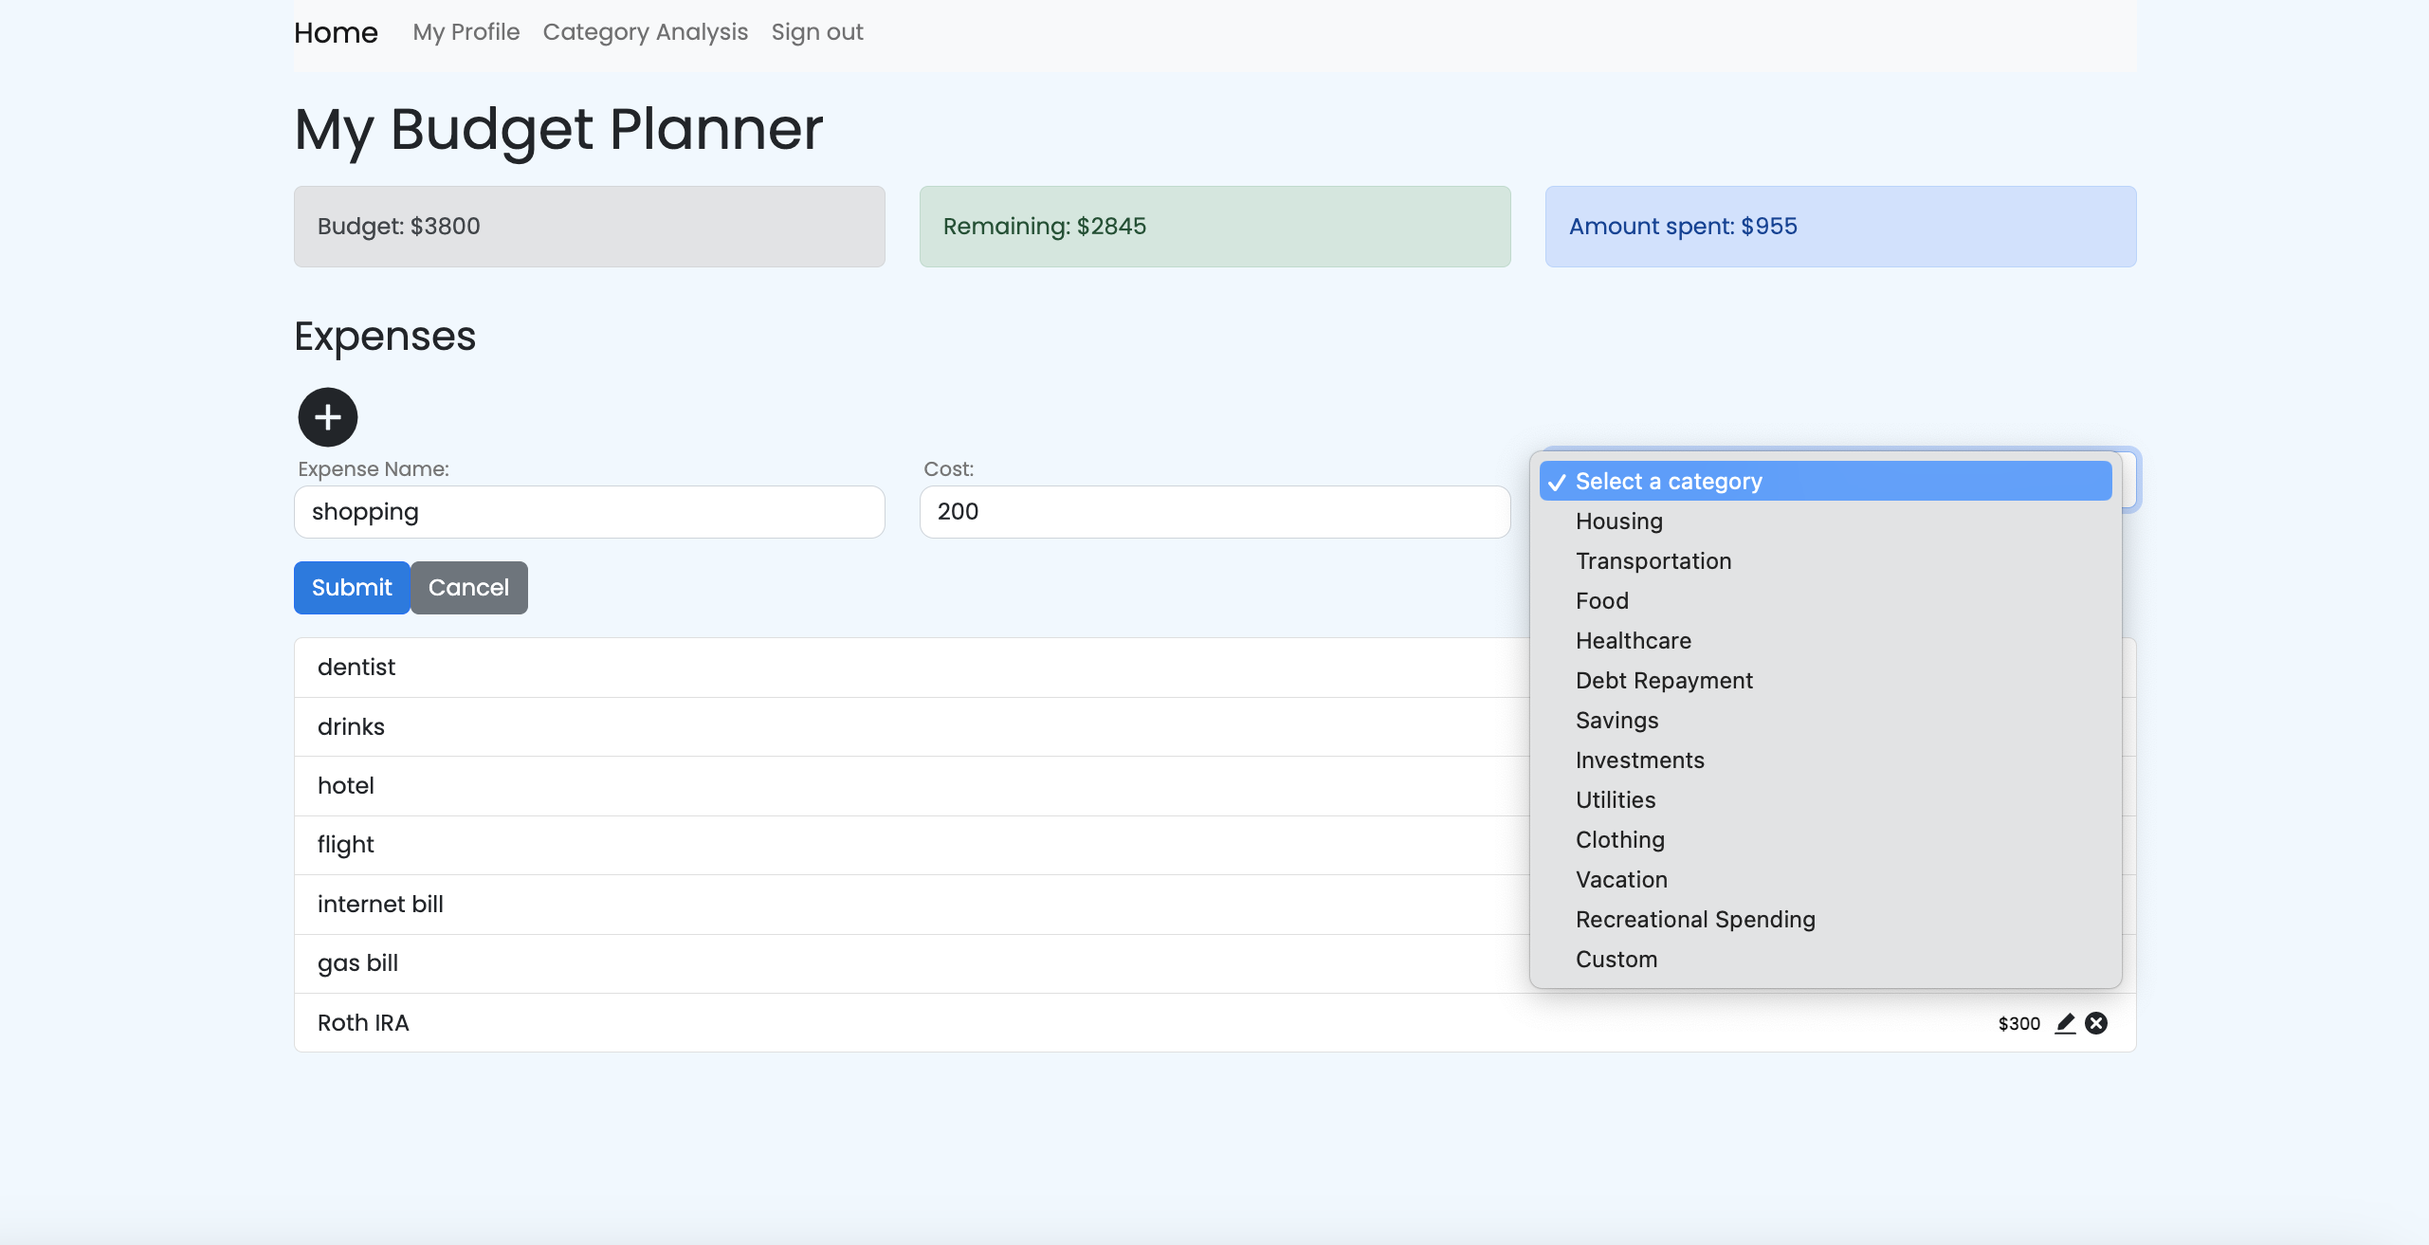
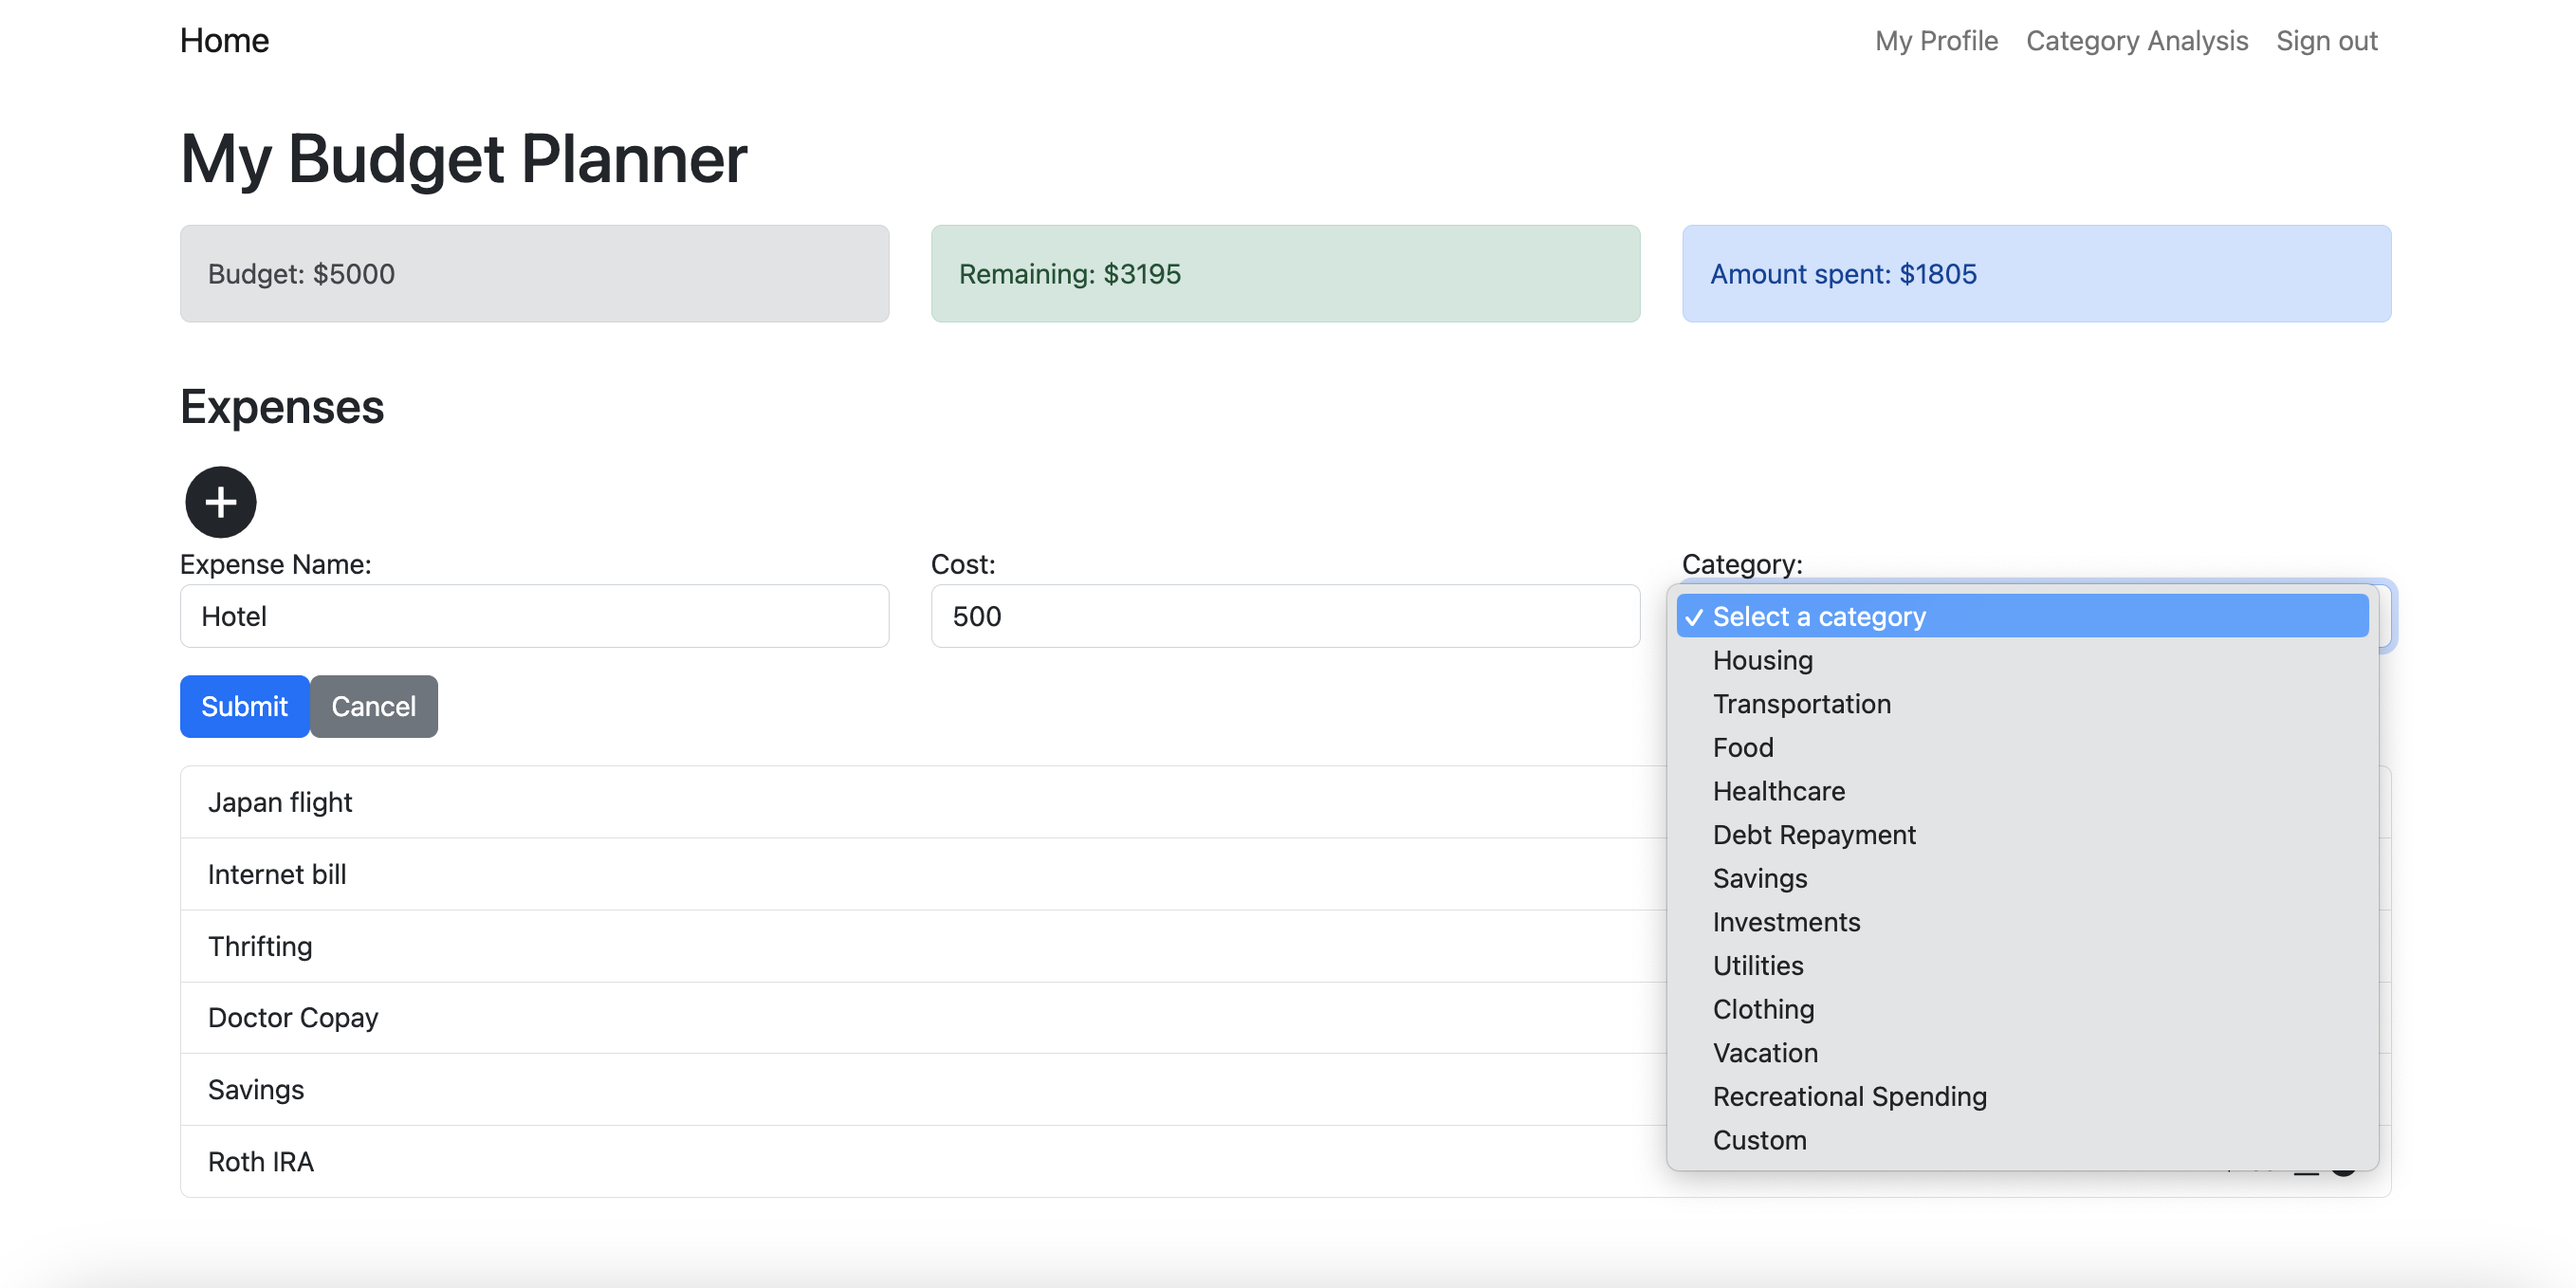
added new readme images, edited styles, fixed custom category in form

diff --git a/client/src/styles/App.css b/client/src/styles/App.css
@@ -1,0 +1,100 @@
+@import url('https://fonts.googleapis.com/css2?family=Poppins&display=swap');
+
+*{
+    margin: 0;
+    padding: 0;
+    box-sizing: border-box;
+}
+
+body{
+    font-family: 'Poppins', sans-serif;
+    /* background-color: aliceblue; */
+}
+
+/* .wrapper{
+    padding: 30px 50px;
+    border: 1px solid #ddd;
+    border-radius: 15px;
+    margin: 10px auto;
+    max-width: 600px;
+} */
+h4{
+    letter-spacing: -1px;
+    font-weight: 400;
+}
+.img{
+    width: 70px;
+    height: 70px;
+    border-radius: 6px;
+    object-fit: cover;
+}
+#img-section p,#deactivate p{
+    font-size: 12px;
+    color: #777;
+    margin-bottom: 10px;
+    text-align: justify;
+}
+#img-section b,#img-section button,#deactivate b{
+    font-size: 14px; 
+}
+
+label{
+    margin-bottom: 0;
+    font-size: 14px;
+    font-weight: 500;
+    color: #777;
+    padding-left: 3px;
+}
+
+.form-control{
+    border-radius: 10px;
+}
+
+input[placeholder]{
+    font-weight: 500;
+}
+.form-control:focus{
+    box-shadow: none;
+    border: 1.5px solid #0779e4;
+}
+select{
+    display: block;
+    width: 100%;
+    border: 1px solid #ddd;
+    border-radius: 10px;
+    height: 40px;
+    padding: 5px 10px;
+    /* -webkit-appearance: none; */
+}
+
+select:focus{
+    outline: none;
+}
+.button{
+    background-color: #fff;
+    color: #0779e4;
+}
+.button:hover{
+    background-color: #0779e4;
+    color: #fff;
+}
+.btn-primary{
+    background-color: #0779e4;
+}
+.danger{
+    background-color: #fff;
+    color: #e20404;
+    border: 1px solid #ddd;
+}
+.danger:hover{
+    background-color: #e20404;
+    color: #fff;
+}
+@media(max-width:576px){
+    .wrapper{
+        padding: 25px 20px;
+    }
+    #deactivate{
+        line-height: 18px;
+    }
+}

diff --git a/client/src/styles/ProfilePage.css b/client/src/styles/ProfilePage.css
@@ -1,16 +1,3 @@
-@import url('https://fonts.googleapis.com/css2?family=Poppins&display=swap');
-
-*{
-    margin: 0;
-    padding: 0;
-    box-sizing: border-box;
-}
-
-body{
-    font-family: 'Poppins', sans-serif;
-    background-color: aliceblue;
-}
-
 .wrapper{
     padding: 30px 50px;
     border: 1px solid #ddd;
@@ -18,83 +5,4 @@ body{
     margin: 10px auto;
     max-width: 600px;
 }
-h4{
-    letter-spacing: -1px;
-    font-weight: 400;
-}
-.img{
-    width: 70px;
-    height: 70px;
-    border-radius: 6px;
-    object-fit: cover;
-}
-#img-section p,#deactivate p{
-    font-size: 12px;
-    color: #777;
-    margin-bottom: 10px;
-    text-align: justify;
-}
-#img-section b,#img-section button,#deactivate b{
-    font-size: 14px; 
-}
 
-label{
-    margin-bottom: 0;
-    font-size: 14px;
-    font-weight: 500;
-    color: #777;
-    padding-left: 3px;
-}
-
-.form-control{
-    border-radius: 10px;
-}
-
-input[placeholder]{
-    font-weight: 500;
-}
-.form-control:focus{
-    box-shadow: none;
-    border: 1.5px solid #0779e4;
-}
-select{
-    display: block;
-    width: 100%;
-    border: 1px solid #ddd;
-    border-radius: 10px;
-    height: 40px;
-    padding: 5px 10px;
-    /* -webkit-appearance: none; */
-}
-
-select:focus{
-    outline: none;
-}
-.button{
-    background-color: #fff;
-    color: #0779e4;
-}
-.button:hover{
-    background-color: #0779e4;
-    color: #fff;
-}
-.btn-primary{
-    background-color: #0779e4;
-}
-.danger{
-    background-color: #fff;
-    color: #e20404;
-    border: 1px solid #ddd;
-}
-.danger:hover{
-    background-color: #e20404;
-    color: #fff;
-}
-@media(max-width:576px){
-    .wrapper{
-        padding: 25px 20px;
-    }
-    #deactivate{
-        line-height: 18px;
-    }
-}

diff --git a/client/src/components/AddExpenseForm.js b/client/src/components/AddExpenseForm.js
@@ -45,7 +45,8 @@ function AddExpenseForm({ user, updateExpenses, selectedExpense, handleSelectedE
     const handleCategoryChange = (e) => {
         // console.log(e.target.value)
         const selectedCategory = e.target.value 
-        if (selectedCategory === 'custom') { // if the user selects the custom category, show the custom category input field 
+        if (selectedCategory === 'Custom') { // if the user selects the custom category, show the custom category input field 
+            setExpenseForm({...expenseForm, category: 'Custom'}) // set category to 'Custom' when user selects custom category
             setShowCustomInput(true)
         } else { 
             setShowCustomInput(false) // hide the custom input field
@@ -148,7 +149,6 @@ function AddExpenseForm({ user, updateExpenses, selectedExpense, handleSelectedE
                                         {category.category}
                                     </option>
                                 ))}
-                                <option value="custom">Custom</option>
                             </select>
                         </div>
                     </div>

diff --git a/client/src/components/Analysis.js b/client/src/components/Analysis.js
@@ -40,10 +40,11 @@ function Analysis() {
 
     return(
         <div>
+            <h1 className='mt-3'>Category Analysis</h1>
             <Chart
                 chartType="PieChart"
                 width="100%"
-                height="400px"
+                height="600px"
                 data={categoryData}
                 options={options}
                 />

diff --git a/db/seeds.rb b/db/seeds.rb
@@ -1,30 +1,31 @@
 puts "🌱 Seeding data..."
 
 # # user data
-brittany = User.create(username: "bcatone", password: "pw456", first_name: "Brittany", last_name: "Catone", city: "Charlotte", state: "North Carolina", postal_code: "28105", budget: 4000)
-olivia = User.create(username: "olive", password: "pw789", first_name: "Olivia", last_name: "Perez", city: "Austin", state: "Texas", postal_code: "73301", budget: 3800)
-chloe = User.create(username: "chloexoxo", password: "parisxo123", first_name: "Chloe", last_name: "Peccorino" , city: "Beacon", state: "New York", postal_code: "12508", budget: 5000)
+# brittany = User.create(username: "bcatone", password: "pw456", first_name: "Brittany", last_name: "Catone", city: "Charlotte", state: "North Carolina", postal_code: "28105", budget: 4000)
+# olivia = User.create(username: "olive", password: "pw789", first_name: "Olivia", last_name: "Perez", city: "Austin", state: "Texas", postal_code: "73301", budget: 3800)
+# chloe = User.create(username: "chloexoxo", password: "parisxo123", first_name: "Chloe", last_name: "Peccorino" , city: "Beacon", state: "New York", postal_code: "12508", budget: 5000)
 
 # category data
-housing = Category.create(category: "Housing", fixed?: true)
-transportation = Category.create(category: "Transportation", fixed?: true)
-food = Category.create(category: "Food", fixed?: true)
-healthcare = Category.create(category: "Healthcare", fixed?: true)
-debt = Category.create(category: "Debt Repayment", fixed?: true)
-savings = Category.create(category: "Savings", fixed?: true)
-investments = Category.create(category: "Investments", fixed?: true)
-utilities = Category.create(category: "Utilities", fixed?: true)
-clothing = Category.create(category: "Clothing", fixed?: true)
-vacation = Category.create(category: "Vacation", fixed?: true)
-recreational = Category.create(category: "Recreational Spending", fixed?: true)
+# housing = Category.create(category: "Housing", fixed?: true)
+# transportation = Category.create(category: "Transportation", fixed?: true)
+# food = Category.create(category: "Food", fixed?: true)
+# healthcare = Category.create(category: "Healthcare", fixed?: true)
+# debt = Category.create(category: "Debt Repayment", fixed?: true)
+# savings = Category.create(category: "Savings", fixed?: true)
+# investments = Category.create(category: "Investments", fixed?: true)
+# utilities = Category.create(category: "Utilities", fixed?: true)
+# clothing = Category.create(category: "Clothing", fixed?: true)
+# vacation = Category.create(category: "Vacation", fixed?: true)
+# recreational = Category.create(category: "Recreational Spending", fixed?: true)
+custom = Category.create(category: "Custom", fixed?: true)
 
 # expense data
-olivia_housing = Expense.create(name: "Rent", cost: 800, user_id: olivia.id, category_id: housing.id)
-olivia_food = Expense.create(name: "Ramen", cost: 15, user_id: olivia.id, category_id: food.id)
-brittany_vacation = Expense.create(name: "London Trip", cost: 200, user_id: brittany.id, category_id: vacation.id)
-brittany_utilities = Expense.create(name: "Internet", cost: 40, user_id: brittany.id, category_id: utilities.id)
-chloe_investments = Expense.create(name: "Roth IRA", cost: 400, user_id: chloe.id, category_id: investments.id)
-chloe_healthcare = Expense.create(name: "Doctor appointment", cost: 20, user_id: chloe.id, category_id: healthcare.id)
+# olivia_housing = Expense.create(name: "Rent", cost: 800, user_id: olivia.id, category_id: housing.id)
+# olivia_food = Expense.create(name: "Ramen", cost: 15, user_id: olivia.id, category_id: food.id)
+# brittany_vacation = Expense.create(name: "London Trip", cost: 200, user_id: brittany.id, category_id: vacation.id)
+# brittany_utilities = Expense.create(name: "Internet", cost: 40, user_id: brittany.id, category_id: utilities.id)
+# chloe_investments = Expense.create(name: "Roth IRA", cost: 400, user_id: chloe.id, category_id: investments.id)
+# chloe_healthcare = Expense.create(name: "Doctor appointment", cost: 20, user_id: chloe.id, category_id: healthcare.id)
 
 
 puts "✅ Done seeding!"
